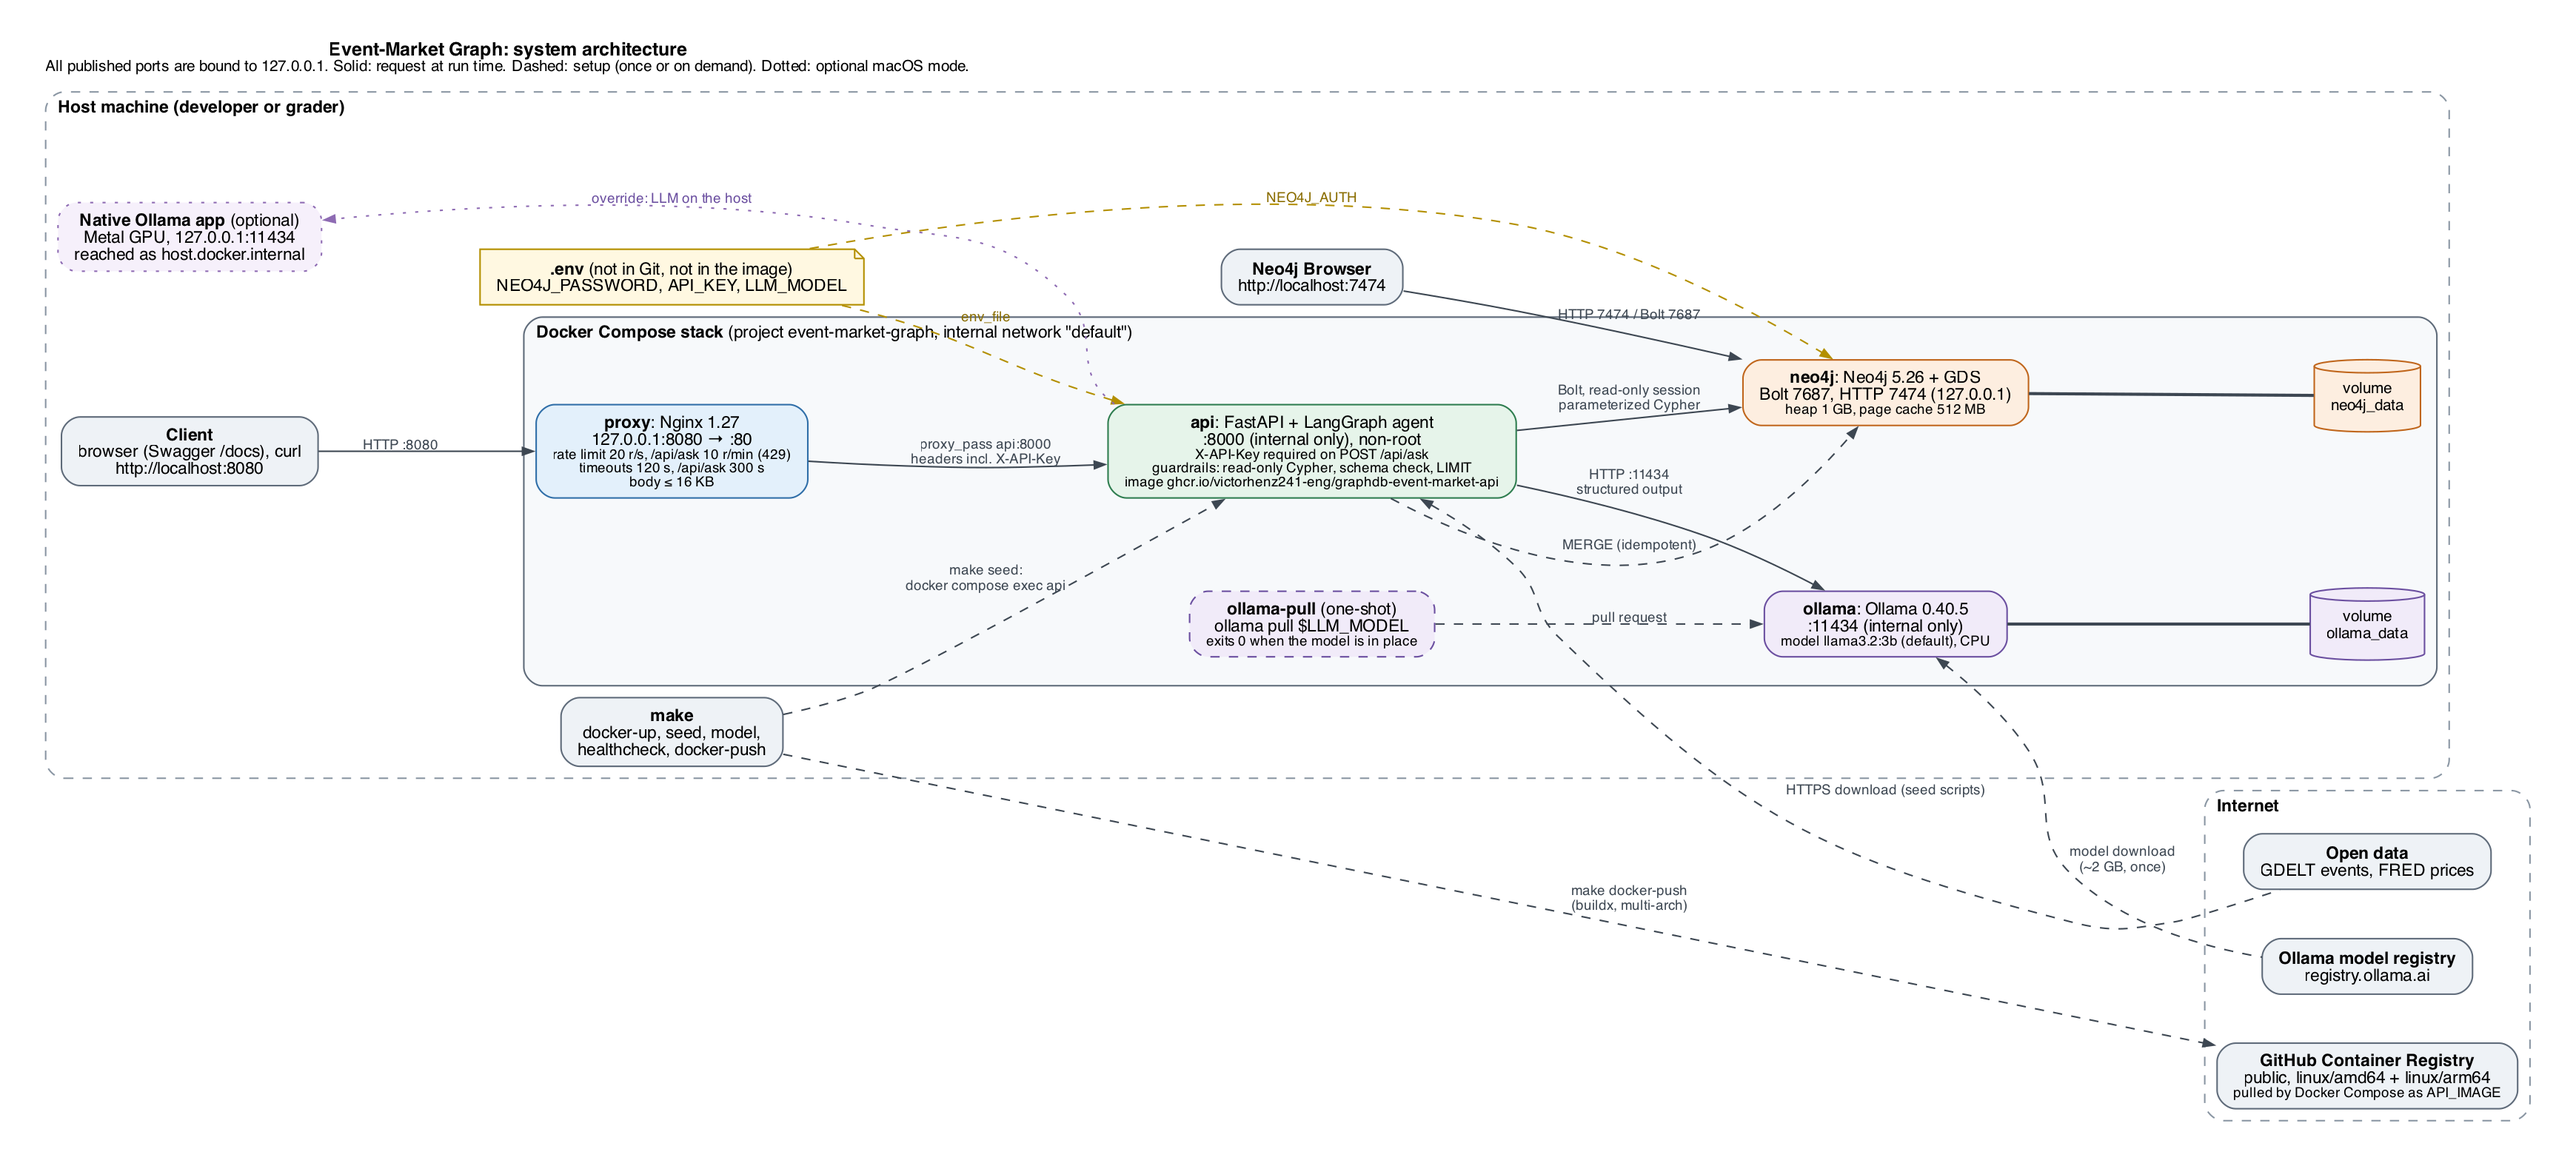
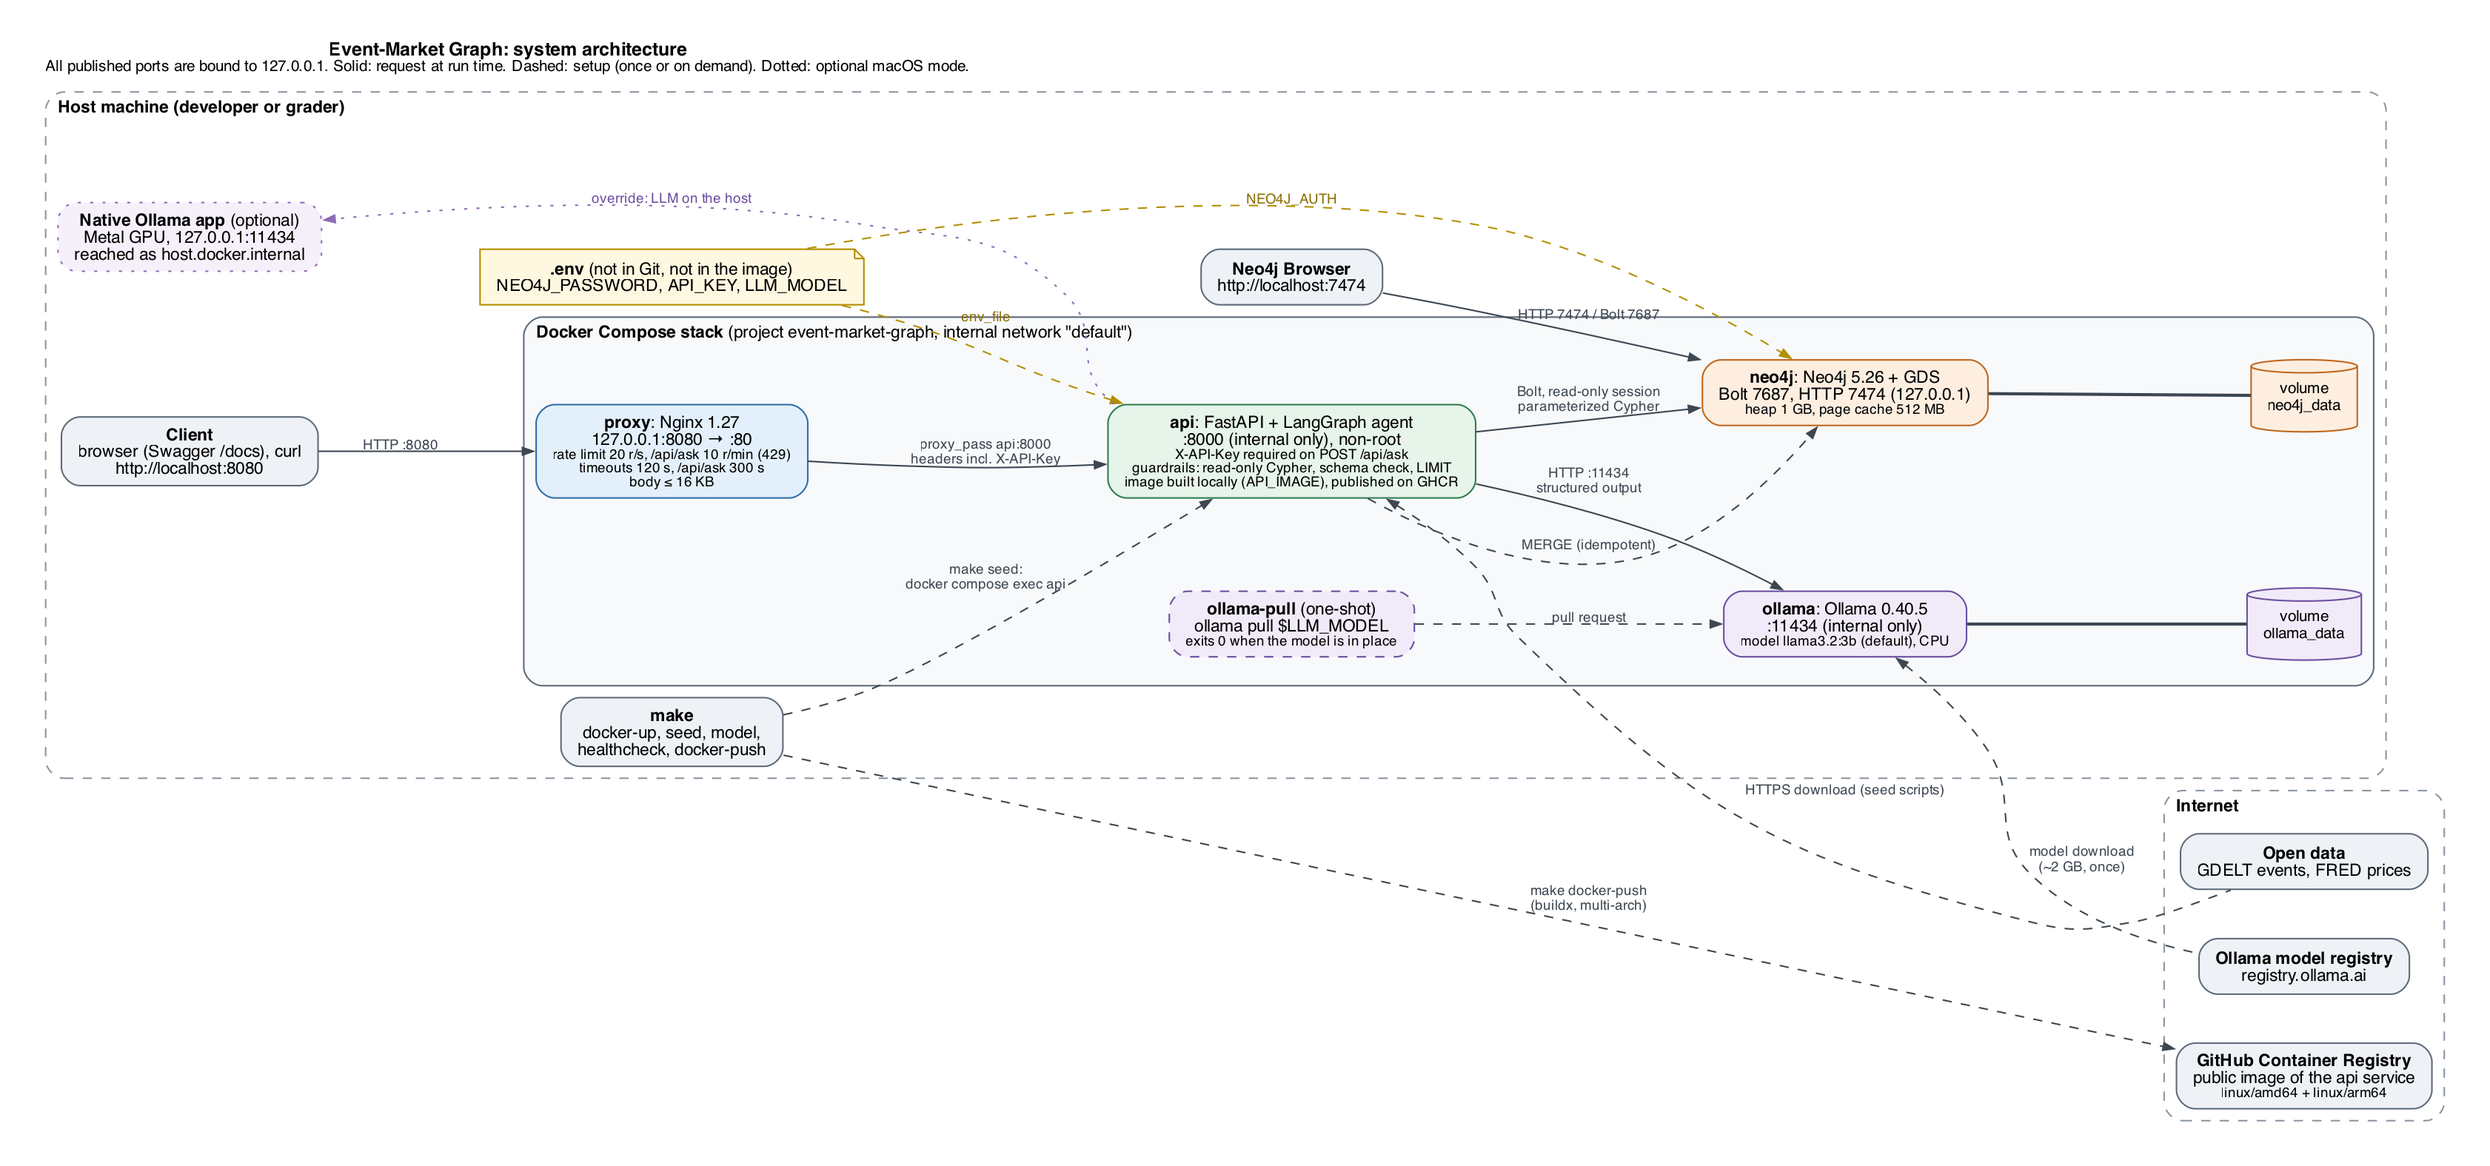
docs(docker): require Compose 2.24.4 and build the API image under a local name

diff --git a/docs/infrastructure.md b/docs/infrastructure.md
@@ -7,7 +7,7 @@ How the stack is built and why. Diagram: [architecture.png](architecture.png) (s
 | Service | Image | What it does | Port | Data |
 |---|---|---|---|---|
 | `proxy` | `nginx:1.27-alpine` | Single entry point: forwards to the API, rate limits, timeouts, body size limit | `127.0.0.1:8080` | none |
-| `api` | built from `Dockerfile`, published as `ghcr.io/victorhenz241-eng/graphdb-event-market-api` | FastAPI endpoints and the LangGraph agent, with the API key on `POST /api/ask` | 8000, internal only | none (stateless) |
+| `api` | built from `Dockerfile` as `API_IMAGE`, published on GHCR (link in the README) | FastAPI endpoints and the LangGraph agent, with the API key on `POST /api/ask` | 8000, internal only | none (stateless) |
 | `neo4j` | `neo4j:5.26` with the GDS plugin | The graph, PageRank and the other GDS algorithms | `127.0.0.1:7474` (Browser), `127.0.0.1:7687` (Bolt) | volume `neo4j_data` |
 | `ollama` | `ollama/ollama:0.40.5` | Serves the local model (`llama3.2:3b` by default, `llama3.1:8b` with 16 GB or more) | 11434, internal only | volume `ollama_data` |
 | `ollama-pull` | `ollama/ollama:0.40.5` | One-shot job: asks `ollama` to download the model, then exits | none | none |
@@ -30,7 +30,8 @@ Images are pinned to a version (never `latest`), so the stack a grader starts is
    prices over HTTPS and write them to Neo4j with `MERGE`, so running it twice changes nothing. Downloads are cached in
    `/srv/data`, owned by the non-root user.
 3. **The model:** `ollama-pull` asks `ollama` to download it from the Ollama registry into `ollama_data`, once.
-4. **The image:** `make docker-push` builds it and pushes it to GHCR; `docker compose` uses it as `API_IMAGE`.
+4. **The image:** `make docker-up` builds it locally as `API_IMAGE` (`event-market-graph-api:dev`);
+   `make docker-push` builds it for amd64 and arm64 and publishes it on GHCR.
 
 ## 4. Why a reverse proxy
 

diff --git a/README.md b/README.md
@@ -17,8 +17,9 @@ Subject 10 of the GraphDB projects (level 3+): geopolitical events and market mo
 
 ## Installation and execution
 
-Requirements: Docker Desktop (or Docker Engine with Compose v2), `make`, about 12 GB of free disk space (the Ollama
-image is 7 GB and the default model about 2 GB).
+Requirements: Docker Desktop or Docker Engine with **Docker Compose v2.24.4 or later** (check with
+`docker compose version`; the `!override` tag of `docker-compose.override.example.yml` needs it), `make`, about 12 GB
+of free disk space (the Ollama image is 7 GB and the default model about 2 GB).
 
 ```bash
 cp .env.example .env        # then set NEO4J_PASSWORD and API_KEY (any long random string)
@@ -152,7 +153,8 @@ The API image is public on the GitHub Container Registry, for `linux/amd64` and 
 docker pull ghcr.io/victorhenz241-eng/graphdb-event-market-api:0.1.0
 ```
 
-Docker Compose uses it as `API_IMAGE` and rebuilds it locally with `make docker-up`. It contains only the application
+`make docker-up` builds the same image locally from the `Dockerfile`, under the name set by `API_IMAGE` in `.env`
+(`event-market-graph-api:dev`), so local builds never overwrite the published tags. It contains only the application
 code, the scripts and the graph contract: no `.env`, no data, no key (see `.dockerignore`).
 
 ## Team contributions
